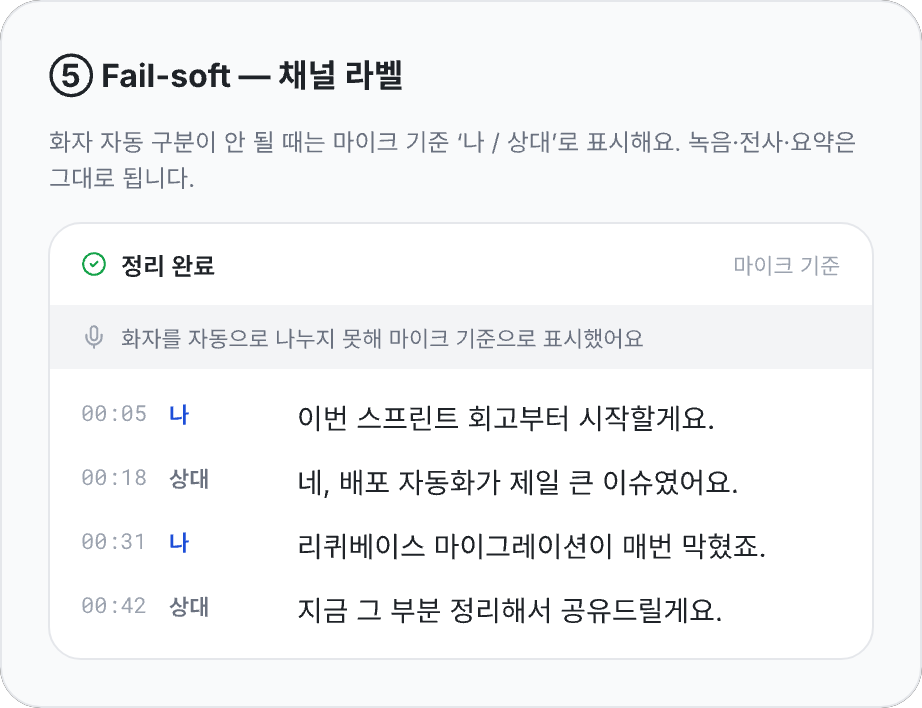
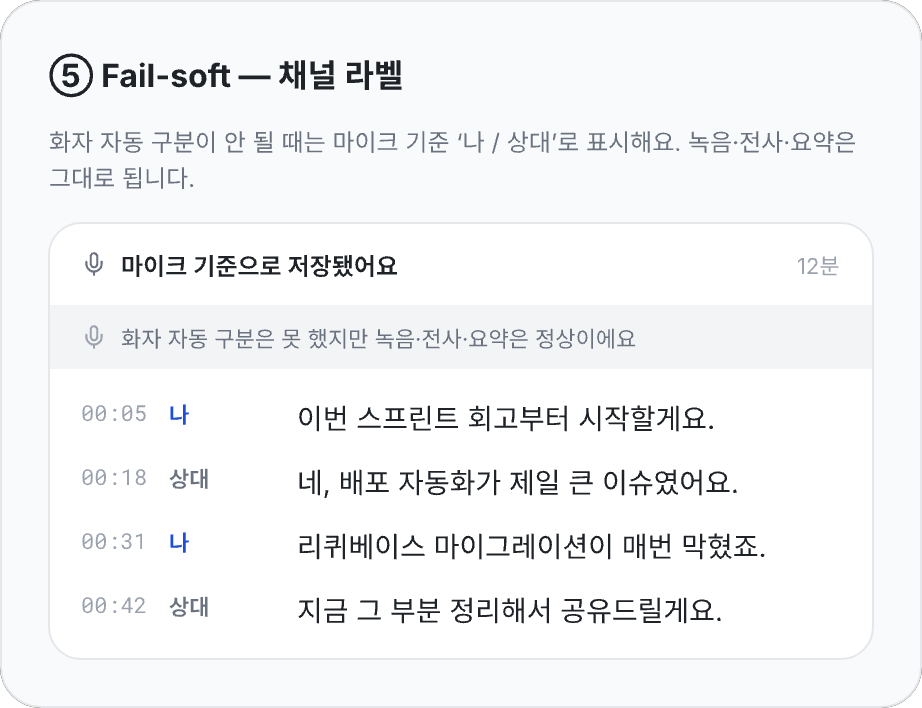
docs(rtdiar): Phase 0c 게이트 리뷰 반영 — Phase 3 선행 결정 D1~D7
critic 게이트 REVISE 지적 해소. 핵심(D1, blocker): 사용자 편집 여부는
영속 불필요한 라이브 세션 상태 → Segment 스키마 무변경, ViewModel에
editedSpeakerSegmentIds(Set<Segment.ID>)로 보유 후 저장 시 resolveFinalLabels에 주입.

D2 되돌리기=라이브 임시 라벨 복귀(VBx raw ID 아님)·배너 일괄. D3 저장은
재조정 후 1회(부분저장 금지, 충돌 시 MeetingSaveRecovery). D4 화자0/1·
보이스프린트0 상태 정의. D5 pending 줄 화자칩 규칙. D6 배너·칩강조 비영속.
D7 fail-soft 헤더를 "마이크 기준으로 저장됐어요" 중립 표현으로(과장 제거)+재export.

Claude-Session: https://claude.ai/code/session_01VWX5d7Hr4SCj4KiwaX1DPv

Changed region(s): [[0.0911, 0.3418, 0.4252, 0.404], [0.1822, 0.4661, 0.6985, 0.4972], [0.7896, 0.3418, 0.9111, 0.404]]

diff --git a/docs/work/reconciliation-ux-spec.md b/docs/work/reconciliation-ux-spec.md
@@ -70,7 +70,43 @@
 - 상태는 empty/loading(저장중)/success(저장후)/edited/disabled(fail-soft 안내)를 모두 가진다
   (CLAUDE.md UI 검증 게이트).
 
+## Phase 3 선행 결정 (게이트 critic 리뷰 반영, 2026-06-24)
+
+게이트 리뷰(critic, REVISE)가 Phase 3 착수 전 결정이 필요하다고 지적한 항목의 확정 답.
+
+### D1 (blocker 해소) — 사용자 편집 여부는 영속하지 않는 라이브 세션 상태다
+- **`Segment` 모델을 바꾸지 않는다**(`Meeting.swift:15` — `speaker: String?`, Codable. 필드 추가 시 저장 스키마·하위호환 부담).
+- 편집 여부는 **재조정(저장 시 1회)에서만** 소비되고 저장 후엔 라벨이 최종 문자열로 확정돼 "편집이었는지" 기억할 필요가 없다(재조정 재실행 없음).
+- 따라서 **ViewModel/UseCase 레이어에 `editedSpeakerSegmentIds: Set<Segment.ID>`**(라이브 중 사용자가 화자를 직접 지정/변경한 segment id)를 들고 있다가, 저장 시 `LiveDiarizationReconciler.resolveFinalLabels`의 `(liveLabel, edited)` 튜플을 `edited = editedSpeakerSegmentIds.contains(segment.id)`로 채운다. 비영속(메모리).
+- 라벨 단위 rename(`SpeakerLabelEditing.replacingSpeaker`)은 해당 라벨의 모든 segment id를, 단일 reassign(`reassignSegment`)은 그 segment id만 set에 넣는다.
+
+### D2 — "되돌리기"의 범위
+- 되돌리기 = **사용자가 라이브에서 본 임시 라벨로 복귀**(예: `김재휘` → `화자 1`). VBx raw ID(`화자 3` 등)로 되돌리지 않는다 — 사용자가 본 적 없는 표기라 혼란.
+- 구현: 재조정 매핑(`mapLabels`)·실명 치환 결과를 폐기하고 라이브 임시 라벨(`liveLabel`)을 그대로 표시. `editedSpeakerSegmentIds`로 보호된 라벨(예: `박팀장`)은 **애초에 자동 변경 대상이 아니므로 되돌리기에 영향받지 않는다**.
+- 단위 = **배너에 표시된 변경 전체 일괄**. 부분 되돌리기는 v1 범위 밖(개별 라벨 재편집으로 대체 가능).
+
+### D3 — 저장 중(화면 2) 앱 종료·충돌
+- **저장은 VBx 재조정이 끝난 뒤 1회만** `MeetingRecord`를 기록한다. 재조정 전 충돌 시 회의는 **미저장**(부분 저장 금지) → 기존 `MeetingSaveRecovery` 복구 경로 대상.
+- `isFinalizingMeeting`은 비영속이라 재시작 시 false로 초기화되는 게 정상(중간 상태가 디스크에 남지 않음).
+
+### D4 — 라이브 diar 정상인데 화자가 없거나 1명
+- **발화/화자 0 = 화자 칩 없이 전사 텍스트만**(기존 `pendingRow`/`committedRow` 방식 그대로). fail-soft(화면 5) 아님.
+- **화자 1명 = 변경 배너 없이 화면 3**(혼자 말한 회의). 매칭되면 실명, 아니면 `화자 1`.
+- **보이스프린트 0 등록 = 화면 3에서 모든 화자 회색 `화자 N`**(파랑 실명 칩 없음). 헤더는 `정리 완료` 유지, 변경 배너 없음.
+
+### D5 — pending 줄 임시 화자 칩 (Minor 5)
+- `committedRow`와 **동일 규칙**(`SpeakerLabel.normalized`, 10pt semibold secondary, `maxWidth: 64`). 단 텍스트와 함께 dim 처리(인식 중).
+- LS-EEND `tentative` segment의 화자 = pending 줄에 표시, `finalized` = committed 줄. (`lseend-streaming-api-notes.md`)
+
+### D6 — 변경 배너 / 칩 강조 수명 (Minor 6·7)
+- 변경 배너: **저장 직후 그 화면 세션에서 1회 표시**. 앱 재시작·다른 회의 전환 시 사라짐. 비영속(UserDefaults 미저장).
+- 연파랑(`#DBEAFE`) 칩 강조: 동일하게 비영속. 다음 진입(앱 재시작/회의 전환) 시 일반 파랑 텍스트.
+
+### D7 — fail-soft 헤더 카피 (Skeptic 노트 반영)
+- 화면 5 헤더를 `정리 완료`(녹색 체크)에서 **`마이크 기준으로 저장됐어요`**(중립)로 바꾼다. 기능 저하 상태에 "정리 완료"는 과장 — 정직한 중립 표현. 녹음·전사·요약 성공 사실은 hint로 유지.
+
 ## 산출물
 
 - `designs/minto-redesign.pen` 프레임 `0c-1`~`0c-5` (원본, 메인 워크트리)
 - `Resources/designs/2026-06-24-rtdiar-reconcile-{1..5}-*.png` (export 스냅샷, 이 브랜치)
+- 게이트 critic 리뷰: REVISE → 위 D1~D7로 해소(D1 blocker 포함). D2~D7은 Phase 3 구현 중 PR 코멘트 수준.